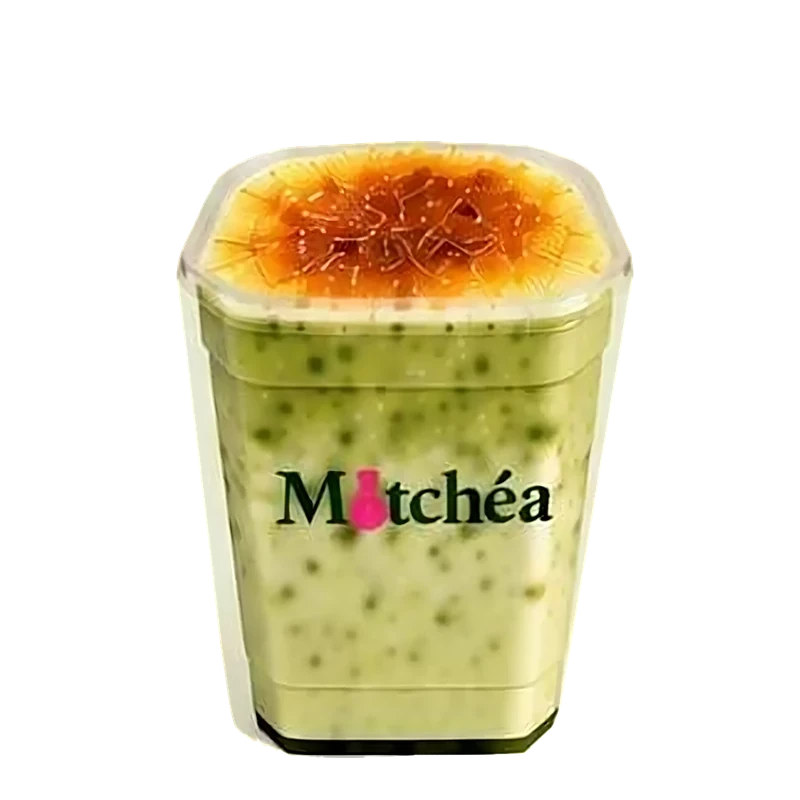
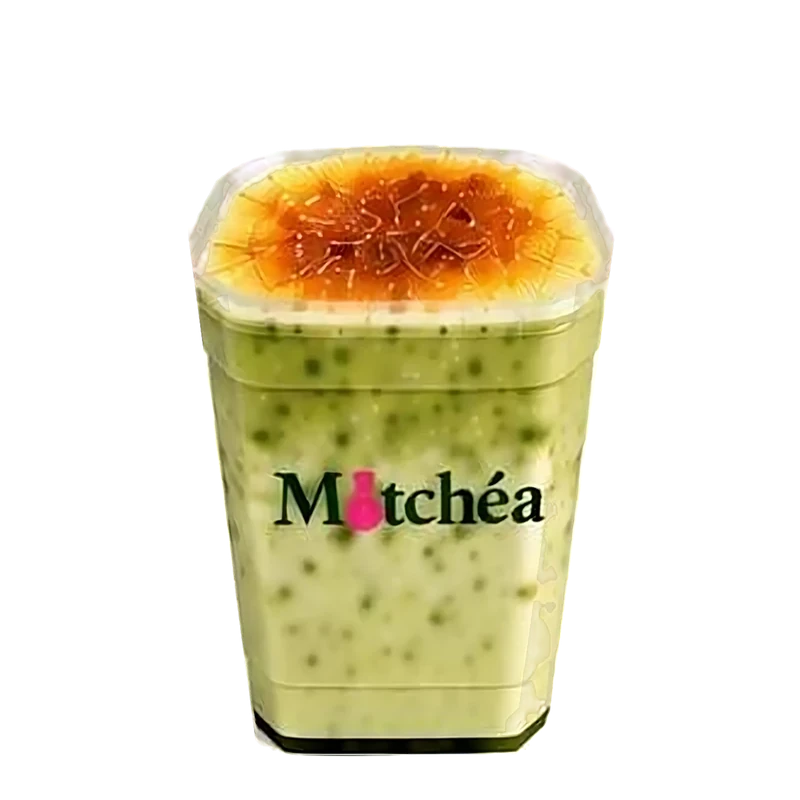
Cups: smooth straight sides and see-through plastic; honey stays inside the drink; POS drink pop-up with big photo

diff --git a/src/pos-v10.css b/src/pos-v10.css
@@ -82,3 +82,67 @@
   .shell .prod.fx-lit:not(:disabled){transform:none}
   .shell .sb .sb-item:hover .sb-ico svg{transform:none}
 }
+
+/* ===== Register: the drink pop-up — a big photo of the drink beside the choices ===== */
+.modal.im10.has-photo{width:min(920px,calc(100vw - 32px))}
+.modal.im10 .modal-h h3{font-size:26px;letter-spacing:-.02em}
+.modal.im10 .im10-price{font-family:var(--display,inherit);font-size:22px;font-weight:700;color:var(--ok);animation:imPrice .45s var(--v10-spring,ease) both}
+@keyframes imPrice{from{opacity:.3;transform:translateY(6px) scale(.92)}}
+.modal.im10.has-photo .modal-b{display:grid;grid-template-columns:minmax(0,42%) minmax(0,1fr);gap:0;padding:0;overflow:hidden}
+.modal.im10 .im10-opts{display:flex;flex-direction:column;gap:18px;padding:20px 24px;overflow:auto;max-height:calc(100vh - 230px)}
+.modal.im10:not(.has-photo) .im10-opts{padding:0}
+.modal.im10 .im10-desc{margin:0;font-size:15px;color:var(--muted)}
+
+/* photo side */
+.im10-hero{position:relative;overflow:hidden;min-height:420px;display:grid;place-items:center;isolation:isolate;
+  background-color:#E9EFD9;background-size:cover;background-position:center}
+.im10-hero::after{content:"";position:absolute;inset:0;z-index:-1;background:radial-gradient(60% 50% at 50% 55%,rgba(255,255,255,.55),transparent 70%)}
+.im10-halo{position:absolute;left:50%;top:50%;width:78%;aspect-ratio:1;translate:-50% -52%;border-radius:50%;z-index:0;pointer-events:none;
+  background:conic-gradient(from 0deg,rgba(255,255,255,0),rgba(255,255,255,.6) 12%,rgba(255,255,255,0) 26%,rgba(255,255,255,0) 50%,rgba(255,255,255,.45) 62%,rgba(255,255,255,0) 76%);
+  -webkit-mask:radial-gradient(circle,transparent 63%,#000 64% 65.5%,transparent 66.5%);mask:radial-gradient(circle,transparent 63%,#000 64% 65.5%,transparent 66.5%);animation:imSpin 18s linear infinite}
+@keyframes imSpin{to{rotate:360deg}}
+.im10-cup{position:relative;z-index:1;width:118%;max-width:none;height:auto;aspect-ratio:1;object-fit:contain;margin:-6% 0 -2%;
+  filter:drop-shadow(0 22px 20px rgba(30,40,20,.32));transform-origin:50% 92%;transition:scale .7s cubic-bezier(.22,1.15,.36,1);animation:imCup .7s cubic-bezier(.22,1,.36,1) both}
+.im10-hero.size-0 .im10-cup{scale:.92}.im10-hero.size-1 .im10-cup{scale:1.04}.im10-hero.size-2 .im10-cup{scale:1.12}
+@keyframes imCup{from{opacity:0;transform:translateY(24px) scale(.9)}}
+.im10-tags{position:absolute;left:14px;right:14px;bottom:14px;z-index:2;display:flex;flex-wrap:wrap;gap:6px}
+.im10-tags span{padding:6px 12px;border-radius:999px;font-size:13px;font-weight:700;color:#22340F;background:rgba(255,251,242,.88);
+  -webkit-backdrop-filter:blur(8px);backdrop-filter:blur(8px);box-shadow:0 0 0 1px rgba(46,66,32,.1),0 8px 16px -12px rgba(30,40,20,.6);animation:imTag .45s cubic-bezier(.22,1,.36,1) both}
+.im10-tags span.add{background:#22340F;color:#FFF8E8}
+@keyframes imTag{from{opacity:0;transform:translateY(8px) scale(.9)}}
+
+/* choices: bigger, easier to tap, clearer picked state */
+.modal.im10 .opt-group h4{font-size:12.5px;font-weight:800;letter-spacing:.12em;margin-bottom:8px}
+.modal.im10 .opts{gap:8px}
+.modal.im10 .opt{min-width:92px;min-height:56px;padding:10px 16px;border-radius:16px;border:0;box-shadow:inset 0 0 0 1.5px var(--line);font-weight:700;font-size:15px;justify-content:center;
+  transition:box-shadow .25s,background .25s,transform .3s var(--v10-spring,ease)}
+.modal.im10 .opt:hover{box-shadow:inset 0 0 0 1.5px color-mix(in srgb,var(--matcha) 60%,var(--line));transform:translateY(-1px)}
+.modal.im10 .opt[aria-pressed="true"]{background:var(--ok-bg);box-shadow:inset 0 0 0 2px var(--ok),0 10px 20px -14px rgba(22,51,15,.6)}
+.modal.im10 .opt small{font-size:12px;font-weight:600}
+.modal.im10 .qty{border-radius:16px;border:0;box-shadow:inset 0 0 0 1.5px var(--line)}
+.modal.im10 .qty button{width:52px;height:52px;font-size:20px;background:transparent}
+.modal.im10 .qty .num{min-width:44px;text-align:center;font-size:18px;font-weight:800}
+.modal.im10 .modal-f .btn{min-height:52px;padding:0 24px;border-radius:16px;font-size:16px}
+.modal.im10 .modal-f .btn.primary{min-width:200px}
+
+/* tablets in portrait: photo on top */
+@media (max-width:760px){
+  .modal.im10.has-photo .modal-b{grid-template-columns:1fr;overflow:auto}
+  .im10-hero{min-height:260px}
+  .im10-cup{width:70%}
+  .modal.im10 .im10-opts{max-height:none;overflow:visible}
+}
+@media (prefers-color-scheme:dark){
+  .im10-hero{background-color:#1F2618}
+  .im10-tags span{background:rgba(20,26,16,.82);color:#E8F1E0;box-shadow:0 0 0 1px rgba(255,255,255,.1)}
+  .im10-tags span.add{background:#9CCB7A;color:#10200B}
+  .modal.im10 .opt[aria-pressed="true"]{box-shadow:inset 0 0 0 2px #9CCB7A}
+  .modal.im10 .im10-price{color:#C9E3B0}
+}
+@media (prefers-reduced-motion:reduce){.im10-halo,.im10-cup,.im10-tags span,.modal.im10 .im10-price{animation:none}}
+/* the sidebar's round collapse button stays under an open pop-up */
+body:has(.scrim) .sb-handle{z-index:40}
+/* drink pop-up: the cup fits its photo at every size; sweetness stays on one row */
+.im10-cup{width:100%;margin:0}
+.modal.im10 .opt-group:has(.opt:nth-child(5):last-child) .opts{display:grid;grid-template-columns:repeat(5,minmax(0,1fr))}
+.modal.im10 .opt-group:has(.opt:nth-child(5):last-child) .opt{min-width:0}

diff --git a/src/components/Register.jsx b/src/components/Register.jsx
@@ -432,21 +432,36 @@ function ItemModal({ product: p, settings: s, initial, stock, otherUsage, onClos
   });
   const x = priceLine(L, p, s);
   const short = Object.keys(x.usage).filter((k) => stock[k] && stock[k].stock - (otherUsage[k] || 0) < x.usage[k]).map((k) => stock[k].name);
-  const set = (patch) => setL({ ...L, ...patch });
+  const cup = useRef(null);
+  const set = (patch) => { // the cup hops when a choice changes
+    setL({ ...L, ...patch });
+    const el = cup.current;
+    if (el?.animate && !window.matchMedia?.('(prefers-reduced-motion: reduce)').matches) {
+      el.animate([{ translate: '0 0', rotate: '0deg' }, { translate: '0 -10px', rotate: '-3deg', offset: 0.35 }, { translate: '0 2px', rotate: '1.5deg', offset: 0.7 }, { translate: '0 0', rotate: '0deg' }], { duration: 650, easing: 'cubic-bezier(.3,.7,.4,1)' });
+    }
+  };
+  const sizeAt = Math.max(0, (s.sizes || []).findIndex((o) => o._id === x.sizeId));
 
   const Opt = ({ on, label, price, onClick }) => (
     <button className="opt" aria-pressed={on} onClick={onClick}>{label}{price != null && <small>{+price ? '+' + peso(price) : '—'}</small>}</button>
   );
 
   return (
-    <Modal title={p.name} aside={<span className="num" style={{ fontFamily: 'var(--mono)' }}>{peso(x.unit)}</span>} onClose={onClose}
+    <Modal className={`im10 ${imageOf(p) ? 'has-photo' : ''}`} title={p.name} aside={<span className="num im10-price" key={x.unit}>{peso(x.unit)}</span>} onClose={onClose}
       footer={<><button className="btn" onClick={onClose}>Cancel</button><button className="btn primary" onClick={() => onSave({ ...L, note: L.note.trim() })}>{initial ? 'Update' : 'Add'} · {peso(x.total)}</button></>}>
-      {(imageOf(p) || p.desc) && (
-        <div className="item-head">
-          {imageOf(p) && <img src={imageOf(p)} alt="" className={sceneBg(imageOf(p)) ? 'scene-bg' : undefined} style={sceneBg(imageOf(p))} onError={(e) => { e.currentTarget.style.display = 'none'; }} />}
-          {p.desc && <p>{p.desc}</p>}
+      {imageOf(p) && (
+        <div className={`im10-hero size-${sizeAt}`} style={sceneBg(imageOf(p))}>
+          <span className="im10-halo" aria-hidden="true" />
+          <img ref={cup} className="im10-cup" src={imageOf(p)} alt="" onError={(e) => { e.currentTarget.style.display = 'none'; }} />
+          <div className="im10-tags" aria-label="Your choices">
+            {p.hasSizes !== false && s.sizes.length > 1 && <span>{s.sizes[sizeAt]?.label}</span>}
+            {p.sweet !== false && L.sweet && <span>{L.sweet} sweet</span>}
+            {addons.filter((a) => L.addonIds.includes(a._id)).map((a) => <span key={a._id} className="add">+ {a.label}</span>)}
+          </div>
         </div>
       )}
+      <div className="im10-opts">
+      {p.desc && <p className="im10-desc">{p.desc}</p>}
       {p.hasSizes !== false && s.sizes.length > 1 && <div className="opt-group"><h4>Size</h4><div className="opts">
         {s.sizes.map((o) => <Opt key={o._id} on={x.sizeId === o._id} label={o.label} price={o.price} onClick={() => set({ sizeId: o._id })} />)}</div></div>}
       {p.milkQty > 0 && s.milks.length > 1 && <div className="opt-group"><h4>Milk</h4><div className="opts">
@@ -460,6 +475,7 @@ function ItemModal({ product: p, settings: s, initial, stock, otherUsage, onClos
           <button onClick={() => set({ qty: Math.max(1, L.qty - 1) })}>−</button><span className="num">{L.qty}</span><button onClick={() => set({ qty: Math.min(LIMITS.lineQty, L.qty + 1) })} disabled={L.qty >= LIMITS.lineQty}>+</button></div></div>
       </div>
       {short.length > 0 && <div className="warnbox">Stock count shows not enough {short.join(', ')}. You can still sell it, then correct the count in Inventory.</div>}
+      </div>
     </Modal>
   );
 }

diff --git a/src/shop/sheetfx.css b/src/shop/sheetfx.css
@@ -40,10 +40,12 @@
   transform-origin:50% 96%;transition:transform .9s cubic-bezier(.22,1.15,.36,1);mix-blend-mode:multiply}
 .shop .sheet-hero.size-0 .hfx-tint{transform:scale(.86)}.shop .sheet-hero.size-1 .hfx-tint{transform:scale(1.02)}.shop .sheet-hero.size-2 .hfx-tint{transform:scale(1.1)}
 .shop .hfx-tint i{position:absolute;left:0;right:0}
+/* tints stay inside the drink: not on the clear plastic walls (soft sides) */
+.shop .hfx-tint:not(.t-fade) i{left:50%;right:auto;width:calc(var(--cupw) * .98);translate:-50% 0;-webkit-mask-image:linear-gradient(90deg,transparent,#000 14%,#000 86%,transparent);mask-image:linear-gradient(90deg,transparent,#000 14%,#000 86%,transparent)}
 /* honey that stays in the cup at the chosen sweetness and glides to a new level */
 .shop .hfx-tint.honey-level{z-index:1}
-.shop .hfx-tint.honey-level i{bottom:calc(100% - var(--base0));height:0;opacity:0;-webkit-mask-image:linear-gradient(180deg,transparent,#000 12px);mask-image:linear-gradient(180deg,transparent,#000 12px);
-  background:linear-gradient(0deg,rgba(214,120,10,.8),rgba(232,150,30,.62) 30%,rgba(240,170,50,.48) 80%,rgba(244,186,80,.36));
+.shop .hfx-tint.honey-level i{bottom:calc(100% - var(--base0));height:0;opacity:0;-webkit-mask-image:linear-gradient(180deg,transparent,#000 12px),linear-gradient(90deg,transparent,#000 9%,#000 91%,transparent);mask-image:linear-gradient(180deg,transparent,#000 12px),linear-gradient(90deg,transparent,#000 14%,#000 86%,transparent);-webkit-mask-composite:source-in;mask-composite:intersect;
+  background:linear-gradient(0deg,rgba(226,140,22,.62),rgba(240,170,48,.46) 30%,rgba(246,190,80,.34) 80%,rgba(250,204,110,.26));
   transition:height 1.6s cubic-bezier(.33,1,.68,1) .35s,opacity .5s ease .3s}
 /* the level matches the sweetness: 25% = a quarter of the drink, 100% = the whole drink up to the lid */
 .shop .hfx-tint.honey-level.on i{height:calc((var(--base0) - var(--top0)) * .8 * var(--lv));opacity:1}

diff --git a/src/components/Modal.jsx b/src/components/Modal.jsx
@@ -1,6 +1,6 @@
 import { useEffect, useState } from 'react';
 
-export default function Modal({ title, aside, children, footer, onClose, wide }) {
+export default function Modal({ title, aside, children, footer, onClose, wide, className = '' }) {
   useEffect(() => {
     const k = (e) => e.key === 'Escape' && onClose?.();
     document.addEventListener('keydown', k);
@@ -8,7 +8,7 @@ export default function Modal({ title, aside, children, footer, onClose, wide })
   }, [onClose]);
   return (
     <div className="scrim" onMouseDown={(e) => e.target === e.currentTarget && onClose?.()}>
-      <div className={`modal ${wide ? 'wide' : ''}`} role="dialog" aria-modal="true" aria-label={typeof title === 'string' ? title : undefined}>
+      <div className={`modal ${wide ? 'wide' : ''} ${className}`} role="dialog" aria-modal="true" aria-label={typeof title === 'string' ? title : undefined}>
         <div className="modal-h"><h3>{title}</h3>{aside}</div>
         <div className="modal-b">{children}</div>
         {footer && <div className="modal-f">{footer}</div>}
